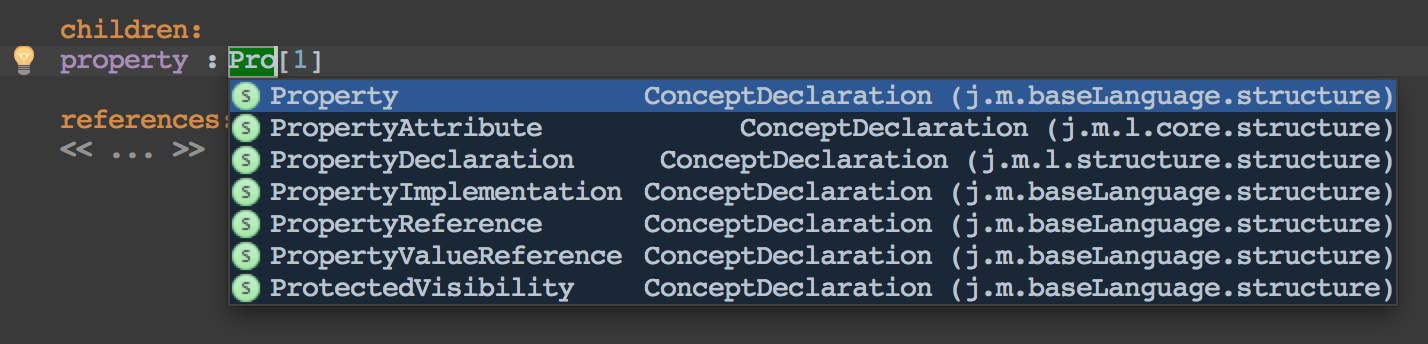
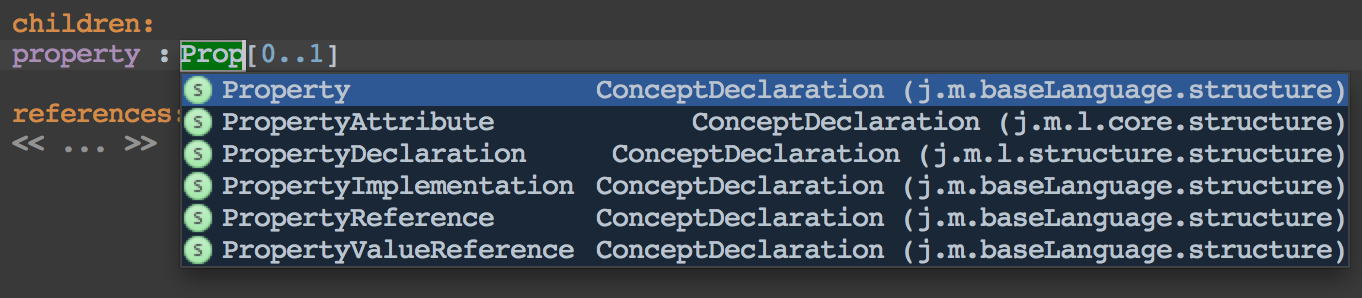
Updated the CodeCompletion tip of the day image

diff --git a/workbench/resources_en/source/tips/CodeCompletion.html b/workbench/resources_en/source/tips/CodeCompletion.html
@@ -6,6 +6,6 @@
 <body>
 <p>Code completion <span class="shortcut">&shortcut:CodeCompletion;</span> is your good friend allowing you to quickly
 complete the statements you typed.</p>
-<p class="image"><img width="704" height="183" src="images/CodeCompletion.png" alt=""></p>
+<p class="image"><img width="684" height="150" src="images/CodeCompletion.png" alt=""></p>
 </body>
 </html>
